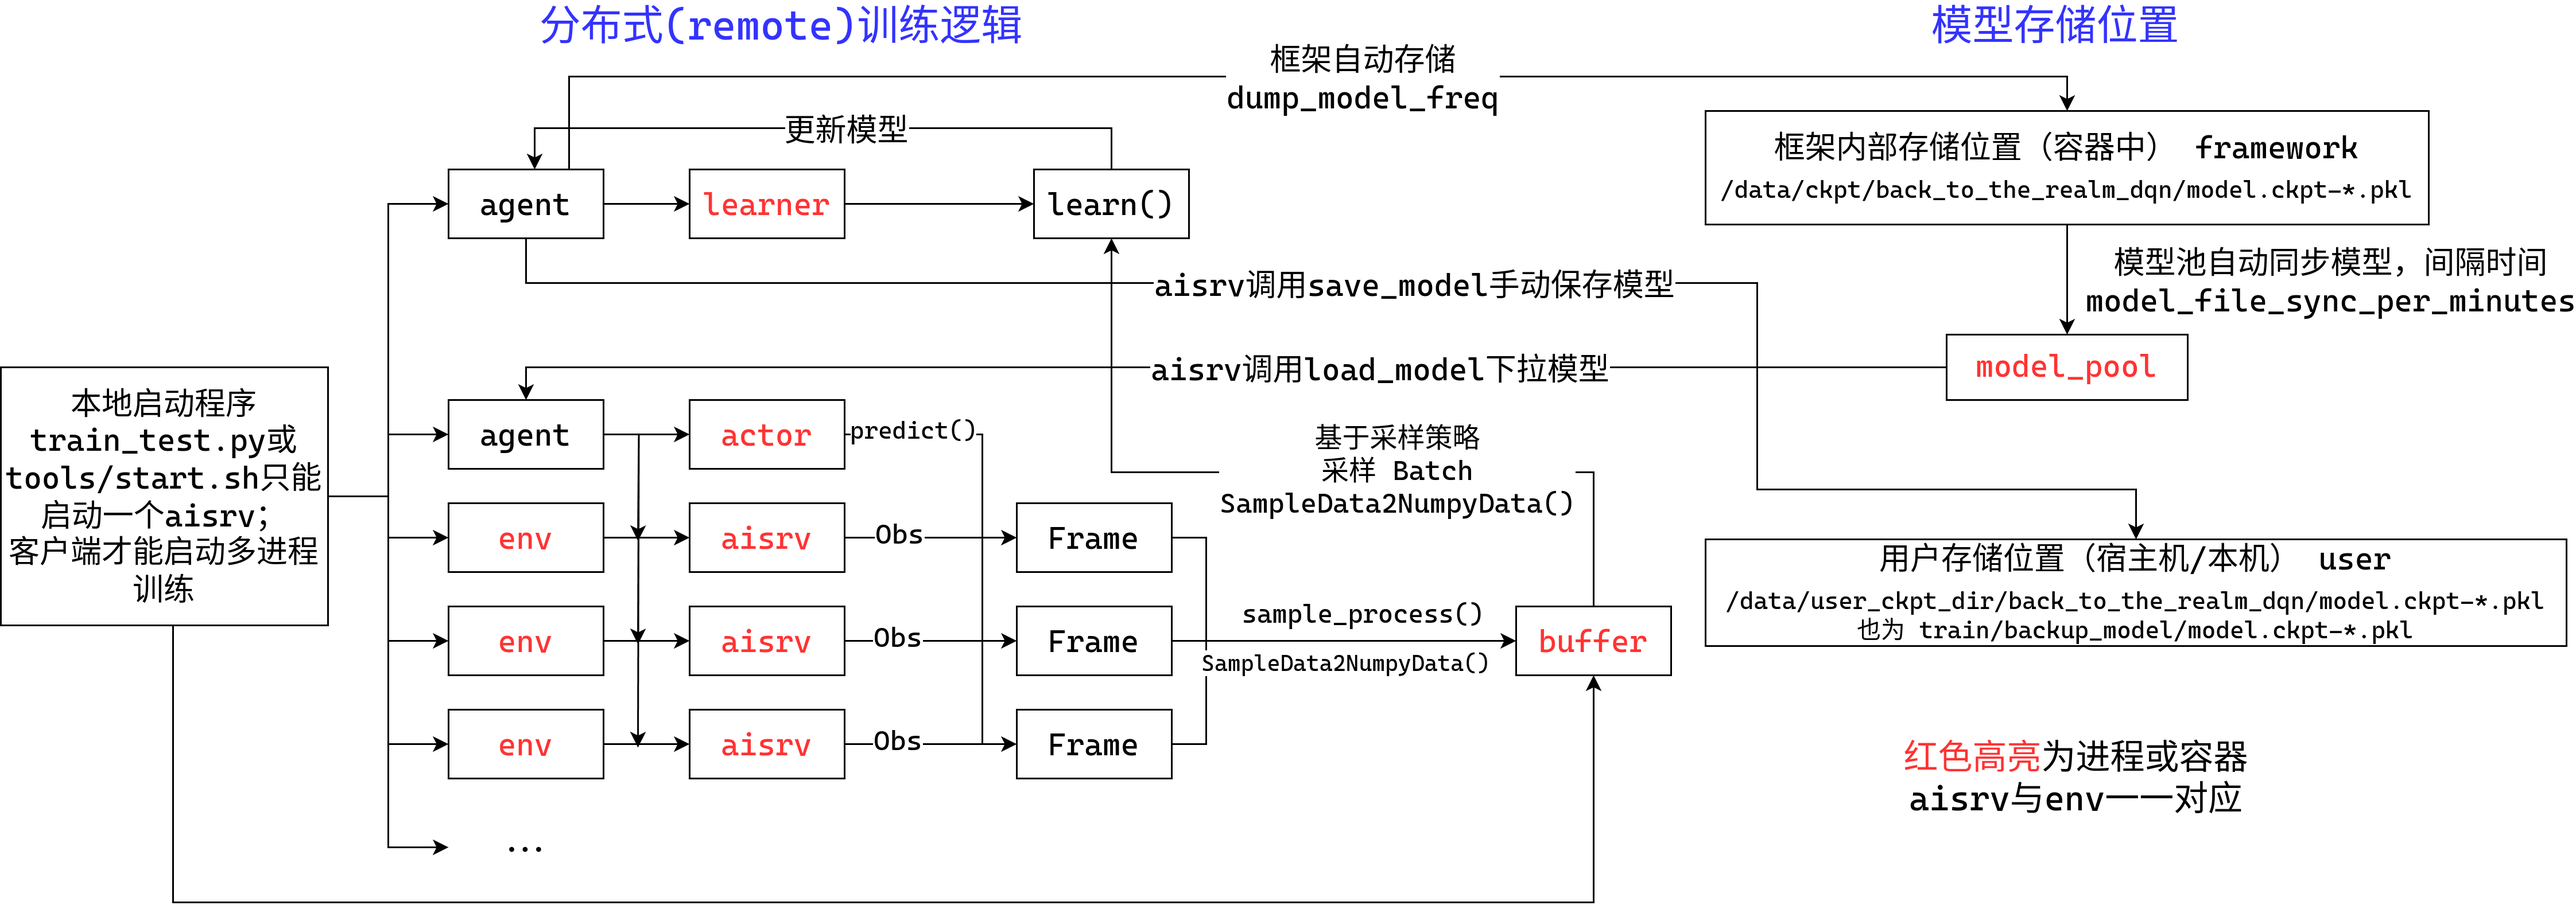
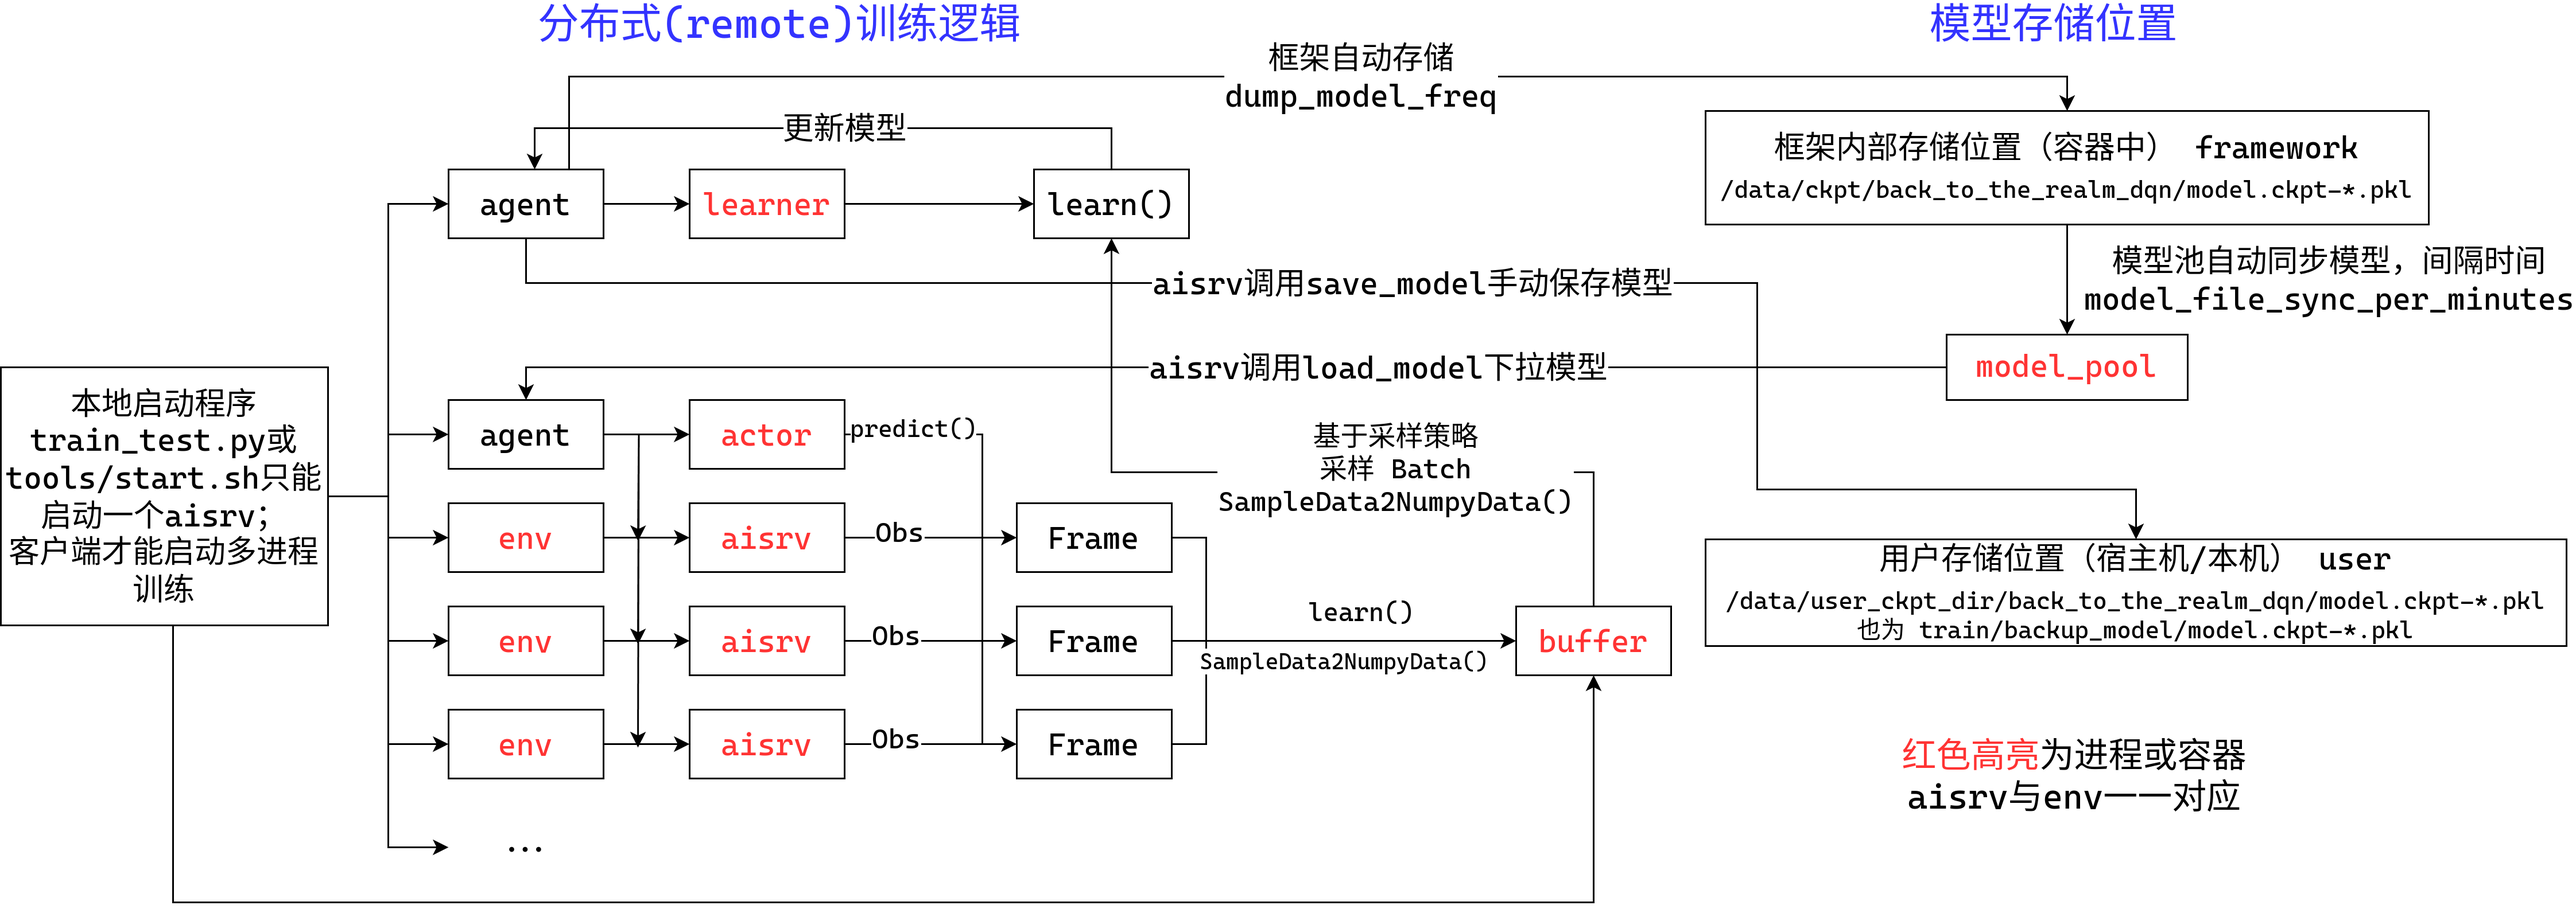
Add kaiwu2025

diff --git a/source/_posts/coding/competitions/kaiwu2025_prelim.md b/source/_posts/coding/competitions/kaiwu2025_prelim.md
@@ -1,0 +1,230 @@
+---
+title: 2025开悟比赛初赛
+hide: false
+math: true
+abbrlink: 19715
+date: 2025-08-08 14:31:32
+index\_img:
+banner\_img:
+category:
+- coding
+- 比赛
+tags:
+---
+
+这里记录一下本次初赛的训练记录以及相对去年的一些改动, 分布式逻辑介绍放在去年的blog中[2024开悟智能体比赛（海选赛）](/posts/33143/), 开源代码继续放在[kaiwu_taichu](https://github.com/wty-yy/kaiwu_taichu/tree/2025)的2025分支中.
+
+## 题目变化
+今年同时报名了两个赛道: 王者高级赛道, 具身赛道, 两个赛道的初赛除了地图不一样外, 还有以下一些不同.
+
+相比去年8个固定位置的随机宝箱，视野范围51x51，今年难度明显提升，将8个宝箱、buff、起点、终点位置全部随机产生，并存在随机一个位置的障碍物封路，而智能体高级赛道和具身赛道的obs还并不一样：
+- 具身视野范围51x51, 王者视野范围11x11
+- 具身完全看不到视野外的宝箱、终点、buff位置，王者可以看到视野外宝箱、终点、buff的大致位置（这里的大致位置指的是将360度划分为8个方向，每个方向按照距离单位20进行离散，给出每个物件的大致位置）
+
+## 特征工程
+我们尝试复刻去年的状态输入，分为4个维度的`51x51`图像输入 (王者赛道代码[`MapManager.get_around_feature`](https://github.com/wty-yy/kaiwu_taichu/blob/9d3f521c7df0ea2a5c96b8af627bc9783272b73d/hok_prelim/code/agent_target_dqn/feature/state_manager.py#L255):
+- 第一维: 障碍物信息, -1未知(仅在王者赛道中存在), 0障碍物, 1通路
+- 第二维: 记忆信息, 即之前走过的格子次数$/10$, 并限制在$[0, 1]$
+- 第三维: 宝箱, buff, 宝箱为0.5, 1.0, buff为-0.5, -1.0, 分别表示大致位置和准确位置
+- 第四维: 终点, 0.5, 1.0分别表示大致位置和准确位置
+
+由于王者的视野范围只有`11x11`, 而且有大致位置的物件, 因此需要对视野外的物件限制相对位置到以英雄为中心的`51x51`图像内, 如下图所示
+
+| 第1帧地图 | 第1帧周围信息地图 | 第199帧地图 | 第199帧周围信息地图 |
+| - | - | - | - |
+| ![map1](/figures/competitions/kaiwu2025/map1.png) | ![map_around1](/figures/competitions/kaiwu2025/map_around1.png) | ![map199](/figures/competitions/kaiwu2025/map199.png) | ![map_around199](/figures/competitions/kaiwu2025/map_around199.png) |
+
+上图中的颜色分别表示:
+- 蓝色: 英雄
+- 绿色: 宝箱
+- 红色: Buff
+- 粉色: 终点
+- 灰色: 未知位置
+- 白色: 通路
+- 黑色: 障碍物
+- 通路上的灰色: 记忆路径 (走过的轨迹)
+
+> 该图可以通过`StateManager`保存得到, 参考[demos/README.md](https://github.com/wty-yy/kaiwu_taichu/tree/2025/hok_prelim/demos)
+
+## 算法设计
+本次官方给出了PPO实现, 但是最开始在上面测试了很久, 训练效果并不理想, 可能是`sample_production_and_consumption_ratio`过高导致的, 我们测试了dqn还是ppo, 都必须将该值保持在10以下, 并且越低越好, 后面的1v1比赛可能需要在2以下更好, 通过调整`learner_train_sleep_seconds`训练休息时间来调整
+
+最后用的是`ddqn`, 还保存了默认的`target_dqn`, 使用只需将文件名重命名为`algorithm.py`即可
+
+## 网络设计
+最开始用的是纯CNN的网络设计 [`model_cnn.py`](https://github.com/wty-yy/kaiwu_taichu/blob/2025/hok_prelim/code/agent_target_dqn/model/model_cnn.py):
+```python
+self.q_cnn = nn.Sequential(
+    nn.Conv2d(4, 32, kernel_size=7, stride=2),
+    nn.ReLU(),
+    nn.Conv2d(32, 64, kernel_size=5, stride=2),
+    nn.ReLU(),
+    nn.Conv2d(64, 64, kernel_size=3, stride=1),
+    nn.ReLU(),
+    nn.Flatten(),
+    MLP([4096, 512], "q_cnn", non_linearity_last=True)
+)
+self.mlp = nn.Sequential(
+    MLP([512 + Config.HERO_FEATURE_DIM, 256], "mlp", non_linearity_last=True),
+    MLP([256, action_shape], "mlp")
+)
+```
+
+更新后的网络在全连接部分加入了`simbaV2`的权重限制和网络架构修改, 代码为[`model.py`](https://github.com/wty-yy/kaiwu_taichu/blob/2025/hok_prelim/code/agent_target_dqn/model/model.py)
+
+## 奖励设计
+完整奖励包含如下几项:
+1. 到终点奖励
+2. 惩罚没有获得的宝箱
+3. 闪现距离惩罚 (官方写闪现距离为16个单位, 当距离小于15时进行惩罚)
+4. 撞墙惩罚
+5. 宝箱奖励
+6. buff奖励
+7. 步数惩罚
+8. 距离奖励
+9. 周围重复步数惩罚
+10. 探索奖励 (具身才用)
+
+奖励函数位于[`StateManager.get_reward()`](https://github.com/wty-yy/kaiwu_taichu/blob/624e99dbaabd0ce9797c054beca34b3748dbaf10/hok_prelim/code/agent_target_dqn/feature/state_manager.py#L406), 配置系数位于[`conf/conf.py`](https://github.com/wty-yy/kaiwu_taichu/blob/624e99dbaabd0ce9797c054beca34b3748dbaf10/hok_prelim/code/agent_target_dqn/conf/conf.py#L87)最下面一部分
+
+{% spoiler 点击显/隐奖励函数get_reward() %}
+```python
+# 1. 到终点
+if self.terminated:
+    # 终点奖励
+    r += cfg.REW_FINISH
+if self.truncated:
+    r -= cfg.REW_TRUNCATED_PUNISH
+# 2. 惩罚没有得到的宝箱
+if self.terminated or self.truncated:
+    rew_miss_treasures = 0
+    for treasure in self.treasures:
+        if treasure.pos[0] != -1 and treasure.available:  # 遗漏的宝箱
+            rew_miss_treasures -= cfg.REW_TREASURE
+    # r += rew_miss_treasures * self.win_rate  # 胜率越高, 惩罚比例越大
+    r += rew_miss_treasures
+# 3. 闪现距离惩罚(官方写闪现距离为16个单位)
+use_flash = self.last_action >= 8
+if use_flash:
+    r += np.clip(
+        (delta_distance - 15) * cfg.REW_FLASH,
+        -5.0, 0.0, dtype=np.float32
+    )
+# 4. 撞墙惩罚
+if hit_wall:
+    r -= cfg.REW_HIT_WALL_PUNISH
+# 5. 宝箱奖励
+treasure_get = (self.curr_frame['obs']['score_info']['treasure_collected_count'] -
+    last_frame['obs']['score_info']['treasure_collected_count'])
+if treasure_get > 0:
+    r += cfg.REW_TREASURE * treasure_get
+# 6. buff奖励
+if (
+    self.curr_frame['obs']['score_info']['buff_count'] -
+    last_frame['obs']['score_info']['buff_count'] > 0
+):
+    r += cfg.REW_BUFF * (0.5 ** self.buff_count)  # 每次buff奖励递减
+    self.buff_count += 1
+# 7. 步数惩罚
+r -= cfg.REW_EACH_STEP_PUNISH
+# 8. 距离奖励
+# 优先宝箱
+min_distance, treasure_delta_distance = None, None
+for treasure in self.treasures:
+    if treasure.pos[0] != -1 and treasure.available:  # 遗漏的宝箱
+        if min_distance is None or treasure.real_distance < min_distance:  # 最近的宝箱
+            min_distance = treasure.real_distance
+            treasure_delta_distance = treasure.last_real_distance - treasure.real_distance
+            if not treasure.found:  # 当没找到时, 则给出限制后的距离 (-1, 1)
+                treasure_delta_distance = np.clip(treasure_delta_distance, -1.0, 1.0, dtype=np.float32)
+if treasure_delta_distance is not None:  # 如果有宝箱只考虑最近宝箱距离
+    r += treasure_delta_distance * cfg.REW_DISTANCE
+if self.end.pos[0] != -1:  # 终点存在
+    d = self.end.last_real_distance - self.end.real_distance
+    if not self.end.found:  # 当没找到时, 则给出限制后的距离 (-1, 1)
+        d = np.clip(d, -1.0, 1.0, dtype=np.float32)
+    r += d * cfg.REW_DISTANCE
+# 9. 周围重复步数惩罚
+around_memory = self.map_manager.get_around_memory(cfg.REW_MEMORY_PUNISH_SIZE)
+r -= min(
+    max(np.sum(around_memory) - cfg.REW_MEMORY_PUNISH_THRESHOLD, 0.0) * cfg.REW_MEMORY_PUNISH_COEF,
+    1.0
+)
+# 10. 探索奖励
+r += self.map_manager.now_explore_grid * cfg.REW_EXPLORATION
+```
+{% endspoiler %}
+
+{% spoiler 点击显/隐奖励系数conf.py %}
+```python
+#################### 奖励 ####################
+REW_FINISH = 15  # 到终点奖励
+REW_TRUNCATED_PUNISH = 80  # 截断惩罚
+REW_TREASURE = 10  # 获得宝箱奖励, 到终点但错失的宝箱就是惩罚
+REW_FLASH = 0.1  # 闪现距离减15乘系数并对奖励做clip(-5, 0)范围
+REW_DISTANCE = 0.1  # 距离奖励向目标 (终点) 移动 (每一帧进行一次奖励)
+REW_HIT_WALL_PUNISH = 0.1  # 撞墙惩罚 (每一帧进行一次惩罚)
+REW_BUFF = 0.5  # 获得buff奖励
+REW_EACH_STEP_PUNISH = 0.02  # 每步的惩罚
+REW_MEMORY_PUNISH_SIZE = 3  # 周围重复步数惩罚的大小
+REW_MEMORY_PUNISH_THRESHOLD = 9  # 周围重复步数惩罚的阈值
+REW_MEMORY_PUNISH_COEF = 0.1  # 周围重复步数惩罚系数
+REW_EXPLORATION = 0.000  # 探索奖励 (王者无需探索奖励)
+REW_GLOBAL_SCALE = 1.0  # 奖励缩放系数
+```
+{% endspoiler %}
+
+在v1.2版本中尝试对**惩罚没有获得的宝箱**乘上实时的胜率`win_rate`来促进前期到达终点, 也导致了模型在后期无法捡到所有宝箱, 在v1.3中删除
+
+## 训练曲线
+
+下面为成功训练出来的一些曲线, 其中diy信息分别表示:
+1. diy_1: 胜率
+2. diy_2: 一个episode总奖励
+3. diy_3: 一个episode撞墙总次数
+4. diy_4: 一个episode未探索的区域大小
+5. diy_5: DQN的探索系数epsilon
+
+v1.1 wyh训练40h 具身, target_dqn, cnn, buffsize 1e5, gamma=0.9 代码版本[2025 prelim v1.1](https://github.com/wty-yy/kaiwu_taichu/tree/2025_prelim_v1.1)
+| part1 | part2 |
+| - | - |
+| ![part1](/figures/competitions/kaiwu2025/v1.1_wyh_40h_part1.png) | ![part2](/figures/competitions/kaiwu2025/v1.1_wyh_40h_part2.png) | 
+
+v1.2 wty训练20h 王者, target_dqn, cnn, buffsize 1e6, gamma=0.9 代码版本[2025 prelim v1.2](https://github.com/wty-yy/kaiwu_taichu/tree/2025_prelim_v1.2)
+
+## 代码架构
+这里我们只在`target_dqn`上进行了成功的修改, 这里仅介绍该算法架构
+```bash
+code
+├── agent_target_dqn
+│   ├── agent.py  # 智能体
+│   ├── algorithm  # 算法
+│   │   ├── algorithm_ddqn.py  # ddqn
+│   │   └── algorithm.py  # ddqn + simba v2
+│   ├── conf  # 配置
+│   │   ├── conf.py  # 算法配置, 奖励系数配置
+│   │   ├── constants.py  # 一些常量
+│   │   ├── train_env_conf_fixed.toml  # 固定的环境配置 (用于测试, 固定起点, 终点, 8个宝箱)
+│   │   └── train_env_conf.toml  # 随机的训练环境配置
+│   ├── feature  # 特征处理
+│   │   ├── definition.py  # 基础定义
+│   │   └── state_manager.py  # OrganManager管理物件位置信息, MapManager管理地图信息, StateManager处理得到obs, reward
+│   ├── model  # 模型
+│   │   ├── model_cnn.py  # CNN+MLP模型
+│   │   ├── model.py  # CNN+simbaV2模型
+│   │   └── simbaV2/  # simbaV2相关函数
+│   ├── utils/  # 处理保存调试文件
+│   └── workflow  # 工作流
+│       └── train_workflow.py  # aisrv训练的工作流代码
+├── conf
+│   ├── configure_app.toml  # 全局训练的train_sleep_time, replay_buffer_capacity等信息配置
+│   └── ...
+└── train_test.py  # 测试当前代码能否启动
+```
+
+## 注意
+本次比赛总结一些值得注意的内容:
+1. `sample_production_and_consumption_ratio`不能过高, 根据开启的并行环境数, 和电脑的性能, 自行调整`configure_app.toml`中的`train_sleep_time`来降低 (虽然导致训练变慢, 但是训练效果更好)
+2. 先从简单奖励开始测试算法可行性 (例如官方给的ppo就不知道为什么训练不出来), 模型的训练效率, 例如可以先单独只开不撞墙奖励, 训练10mins左右模型就会收敛到一个不撞墙策略上, 而对模型加入残差和layernorm就会导致30mins都不收敛
+3. 先要一开始跑出一个能用的算法、奖励、模型先，在一个可以训出来的奖励上慢慢加内容
+

diff --git a/source/_posts/coding/competitions/kaiwu2024_secret.md b/source/_posts/coding/competitions/kaiwu2024_secret.md
@@ -84,9 +84,9 @@ PPO算法可以在上述源码中[diy文件夹](https://github.com/wty-yy/kaiwu2
         - 介绍：包含一个实例化的 `agent`。该进程只会调用 `agent.predict, load_model`，这个函数输入的状态信息是由 `aisrv` 通过tcp发送到该进程的（如果每个环境都单开一个非常容易导致显存爆炸，并且分布式下也不一定所有服务器都有显卡），因此所有的 `aisrv` 都共享的是一个相同的 `agent` 实例，该 `agent` 的权重更新会用到 `model_pool`，此逻辑会在下文进行介绍。
     - aisrv：
         - 功能：使用 `actor` 中的 `agent` 与一个独立的环境进行交互，产生样本保存到buffer中。
-        - 介绍：包含一个实例化的环境 `env`，**该进程会调用 `train_workflow.workflow` 函数**。注意传入的 `agent` 不是你写的 `Agent` 类实例化结果，而是 `actor` 的，调用所有 `predict, load_model` 函数都会通过tcp和 `actor` 进行通讯，而 `learn` 函数则不会起到作用（由后台根据采样逻辑进行采样并发送learner训练），发送样本到buffer的函数则是 `sample_process`。
+        - 介绍：包含一个实例化的环境 `env`，**该进程会调用 `train_workflow.workflow` 函数**。注意传入的 `agent` 不是你写的 `Agent` 类实例化结果，而是 `actor` 的，调用所有 `predict, load_model` 函数都会通过tcp和 `actor` 进行通讯，而 `learn` 函数则不会起到作用（由后台根据采样逻辑进行采样并发送learner训练），发送样本到buffer的函数则是 `learn`。
     - buffer：
-        - 功能：存储aisrv通过 `sample_process` 发送的样本，并基于采样策略进行采样。
+        - 功能：存储aisrv通过 `learn` 发送的样本，并基于采样策略进行采样。
         - 介绍：包含一个从 `reverb` 包(Deepmind)中实例化的buffer。因此buffer的采样和移除策略可以[参考官方文档](https://github.com/google-deepmind/reverb)，常用的采样策略为均匀采样 `Uniform`，移除策略为顺序移除（可以把他想象成一个队列，加入样本就是进队尾，顺序移除就是弹出队首），这个配置相关参数为 `reverb_remover, reverb_sampler`。
     - model_pool：
         - 功能：自动同步learner保存的模型（保存频率为配置中的 `dump_model_freq`，同步时间为 `model_file_sync_per_minutes`，单位分钟），处理actor或aisrv通过 `load_model` 进行读取模型的请求。
